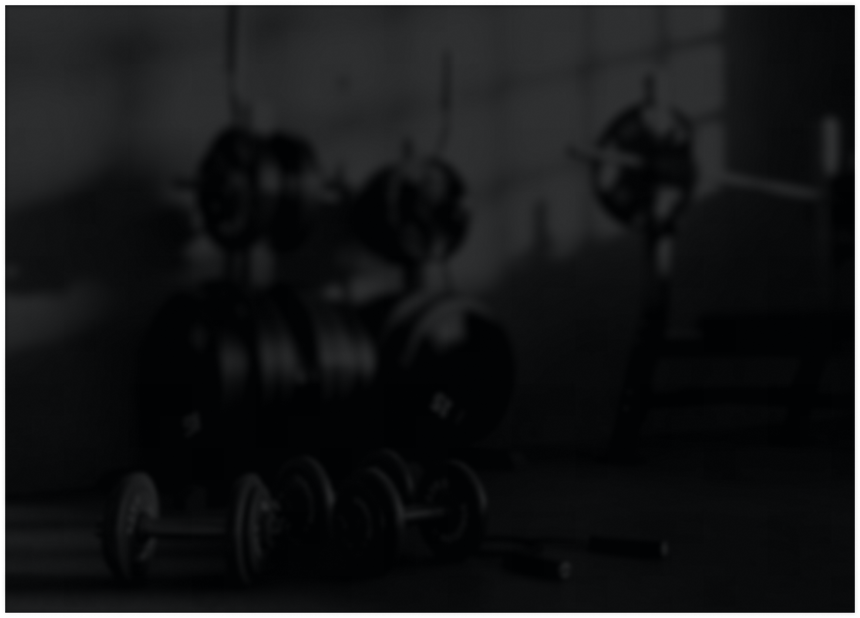
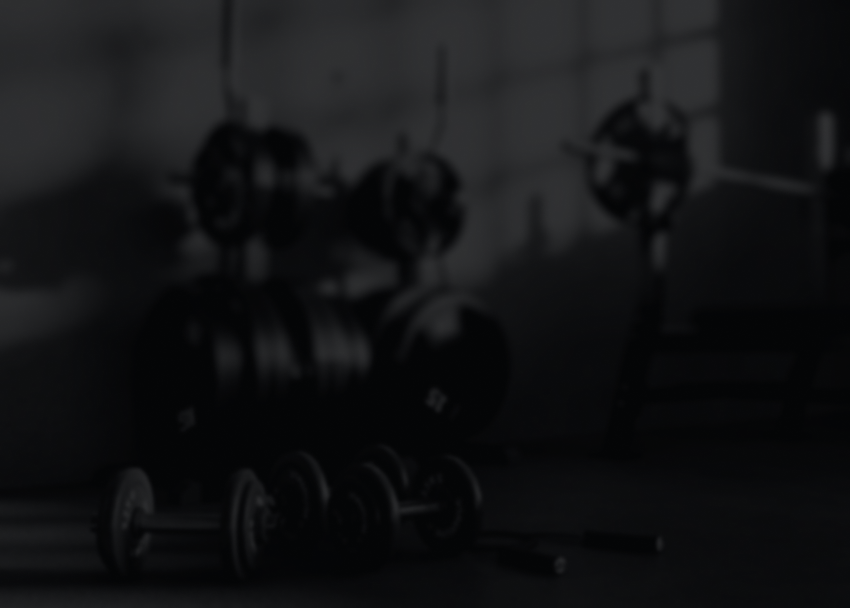
zavrseni clanovi

Changed region(s): [[0.0, 0.0, 1.0, 1.0]]

diff --git a/MainProzori/winAdmin.py b/MainProzori/winAdmin.py
@@ -1,0 +1,192 @@
+from tkinter import *
+import customtkinter as ctk
+import queries
+import helperFunctions
+import widgets as wid
+
+
+class ClanoviWindow:
+    def __init__(self, window, main_window,uloga):
+        self.window = window
+        self.main_window=main_window
+        self.current_canvas = None
+        self.broj_rezervacija_za_nagradjivanje=2
+        self.uloga=uloga
+        
+
+    def start(self):
+        self.current_canvas = Canvas(self.window, bg="#010204", height=618, width=860, bd=0, highlightthickness=0, relief="ridge")
+        self.current_canvas.place(x=230, y=0)        
+        
+        wid.create_button(self.current_canvas,"./src/img/Widget/btnExit.png",812,9,33,33,lambda: self.main_window.unisti_trenutni_win())# EXit dugme
+        wid.create_button(self.current_canvas,"./src/img/Widget/btnSearch.png",358,53,33,33,self.pretrazi) # Search dugme
+        self.uloga=="admin" and wid.create_button(self.current_canvas,"./src/img/Widget/btnNagradi.png",23,541,252,40,lambda: self.winClan_Izmeni("Nagradi")) # nagradi
+        wid.create_button(self.current_canvas,"./src/img/Widget/btnAktiviraj.png",300,541,252,40,lambda: self.winClan_Izmeni("Aktiviraj")) # aktiviraj
+        wid.create_button(self.current_canvas,"./src/img/Widget/btnObrisi.png",576,541,252,40,self.clan_delete) # delete
+        
+        self.imgsearchPozadiga = wid.create_canvas_image(self.current_canvas,"./src/img/Widget/searchPozadina.png",23,53)
+        self.tabelaPozadina = wid.create_canvas_image(self.current_canvas,"./src/img/Widget/tabelaPozadina.png",23,102)
+        
+        self.kriterijumiMap={
+            "Korisničko ime" : "username",
+            "Ime" : "ime",
+            "Prezime" : "prezime",
+            "Članstvo" : "status_clanstva",
+            "Paket" : "uplacen_paket",
+            "Datum registracije" : "datum_registracije",
+            "Članarina obnovljena" : "obnova_clanarine"
+        }
+        self.kriterijumi=["Korisničko ime", "Ime", "Prezime", "Članstvo", "Paket","Datum registracije","Članarina obnovljena","Broj rezervacija"]
+        self.entrySearch=wid.create_entry_search(self.current_canvas,self.pretrazi)
+        
+        self.current_canvas.create_text(610,65, anchor="nw", text="Pretraži po:", fill="#FFFFFF", font=("Inter", 12 * -1))
+        self.cmbbxSearch=wid.create_comboBox(self.current_canvas,self.kriterijumi,x=681,y=53)
+        self.cmbbxSearch.configure(values=self.kriterijumi[:-1])
+        
+        self.table=wid.create_table(self.current_canvas,self.popuni_tabelu,tuple(self.kriterijumi))
+        self.table.column("Korisničko ime", width=90)
+        self.table.column("Ime", width=100)
+        self.table.column("Prezime", width=100)
+        self.table.column("Datum registracije", width=100)
+        self.table.column("Članarina obnovljena", width=120)    
+        
+        
+    
+
+    def popuni_tabelu(self,tabela):
+        for red in tabela.get_children():
+            tabela.delete(red)
+                
+        podaci=self.izlistaj()
+        
+        for podatak in podaci:
+            podatak=list(podatak)
+            username=podatak[0]
+            broj_rezervacija=queries.broj_rezervacija_za_mesec(username)
+            podatak.append(broj_rezervacija)
+            if(broj_rezervacija>=self.broj_rezervacija_za_nagradjivanje):
+                tabela.insert("", "end", values=podatak,tags="za_aktivaciju")
+            else: tabela.insert("", "end", values=podatak)
+
+    def pretrazi(self):
+        pretraga = self.entrySearch.get().strip().lower()
+        kriterijum = self.kriterijumiMap.get(self.cmbbxSearch.get())
+        if(not kriterijum):
+            helperFunctions.obavestenje("Prvo izaberite kriterijum pretrage.")
+            return
+
+        for red in self.table.get_children():
+            self.table.delete(red)
+            
+        if pretraga =="" or pretraga=="pretraži":
+            pretraga=""
+        else:
+            if pretraga in "premium":
+                pretraga = 1
+            elif pretraga in "standard":
+                pretraga = 0  
+            elif pretraga in "aktiviran":
+                pretraga = 1
+            elif pretraga in "neaktiviran":
+                pretraga = 0  
+            else:
+                pass
+        
+        podaci=self.izlistaj(pretraga=pretraga,kriterijum=kriterijum)
+        
+        for podatak in podaci:
+            podatak=list(podatak)
+            username=podatak[0]
+            broj_rezervacija=queries.broj_rezervacija_za_mesec(username)
+            podatak.append(broj_rezervacija)
+            if(broj_rezervacija>=self.broj_rezervacija_za_nagradjivanje):
+                self.table.insert("", "end", values=podatak,tags="za_aktivaciju")
+            else: self.table.insert("", "end", values=podatak)
+
+    def izlistaj(self,kriterijum='username',pretraga=""):              
+        return queries.izlistaj_korisnike(pretraga,kriterijum)
+    
+    
+    def winClan_Izmeni(self,mode="Nagradi"):# ili Aktiviraj
+        slctd_item = self.table.selection()
+        if not slctd_item:
+            helperFunctions.obavestenje(poruka="Niste odabrali nijednog korisnika.")
+            return
+        
+        self.trenutni_window=helperFunctions.napravi_toplevel(height=193,title="Izmeni trening")
+        
+        slctd_data = self.table.item(slctd_item)
+        slctd_username = slctd_data["values"][0]
+        slctd_ime=slctd_data["values"][1]
+        slctd_prezime=slctd_data["values"][2]
+        slctd_br_rez=slctd_data["values"][7]
+        slctd_aktiviran=slctd_data["values"][3]
+        slctd_paket=slctd_data["values"][4]
+        
+        self.entryID=wid.create_entry(self.trenutni_window,70,11,width=203,height=23,placeholder=slctd_username+", "+slctd_ime+" "+slctd_prezime,justify="center",belo=True,state="disabled")
+        
+        if(mode=="Nagradi"):
+            wid.create_label(self.trenutni_window,"Broj realizovanih rezervacija u proteklih",34,52)
+            wid.create_label(self.trenutni_window,"mesec dana:",126,70)
+            self.entryBrDana=wid.create_entry(self.trenutni_window,151,96,width=41,height=23,placeholder=slctd_br_rez,justify="center",belo=True,state="disabled")
+            za_aktivaciju=slctd_data.get("tags")
+            if(za_aktivaciju):
+                fg_color="#3DA928"
+                btnSacuvaj = ctk.CTkButton(self.trenutni_window,width=166,height=27,text_color="#FFFFFF", text="Nagradi lojalnost",font=("Inter", 15),fg_color=fg_color,hover_color="#87E175", command=self.nagradi_lojalnost)
+                btnSacuvaj.place(x=89,y=132)
+            else:
+                fg_color="#2B2B2B"
+                btnSacuvaj = ctk.CTkButton(self.trenutni_window,width=166,height=27, text="Nagradi lojalnost",font=("Inter", 15),fg_color=fg_color,hover_color="#6B6969", command=lambda: None)
+                btnSacuvaj.place(x=89,y=132)
+        
+        else:
+            wid.create_label(self.trenutni_window,"Trenutni status:",22,57)
+            wid.create_label(self.trenutni_window,"Premium paket:",22,93)
+            self.entryStatus=wid.create_entry(self.trenutni_window,197,52,width=124,height=23,placeholder=slctd_aktiviran,justify="center",belo=True,state="disabled")
+            self.switchPaket=ctk.CTkSwitch(self.trenutni_window,width=43,height=24,text='')
+            self.switchPaket.place(x=272,y=90)
+            if (slctd_paket=="Premium"): self.switchPaket.select() 
+            else: self.switchPaket.deselect()
+            btnSacuvaj = ctk.CTkButton(self.trenutni_window,width=166,height=27, text="Aktiviraj status",font=("Inter", 15), command=self.aktiviraj_paket)
+            btnSacuvaj.place(x=89,y=132)
+            
+        wid.create_button(self.trenutni_window,"./src/img/Widget/btnOtkazi.png",x=136,y=166,width=72,height=17,command=self.trenutni_window.destroy)
+    
+    def clan_delete(self):
+        slctd_item = self.table.selection()
+        if not slctd_item:
+            helperFunctions.obavestenje(poruka="Niste odabrali nijednog korisnika.")
+            return
+        
+        pitaj = helperFunctions.pitaj(title="Potvrda brisanja", poruka="Da li ste sigurni da želite da obiršete odabranog korisnika?")
+        if not pitaj:
+            return
+
+        slctd_data = self.table.item(slctd_item)
+        username = slctd_data["values"][0]
+
+        try:
+            komanda = "DELETE FROM Korisnici WHERE username = ?"
+            queries.cursor.execute(komanda, (username,))
+            queries.connection.commit()
+
+            self.table.delete(slctd_item)
+            helperFunctions.obavestenje(title="Brisanje", poruka="Korisnik je uspešno obrisan.")
+
+        except Exception as e:
+            helperFunctions.obavestenje(title="Greška", poruka=f"Došlo je do greške prilikom brisanja korisnika: {e}")
+        pass
+    
+    def nagradi_lojalnost(self):
+        username = self.entryID.get().split(",")[0].strip()
+        queries.nagradi_lojalnost(username)
+        self.popuni_tabelu(self.table)
+        self.trenutni_window.destroy()
+        
+    def aktiviraj_paket(self):
+        username = self.entryID.get().split(",")[0].strip()
+        paket=self.switchPaket.get()
+        queries.aktiviraj_paket(username,paket)
+        self.popuni_tabelu(self.table)
+        self.trenutni_window.destroy()
+        

diff --git a/winMain.py b/winMain.py
@@ -21,7 +21,7 @@ class MainWindow:
         self.username=username
         self.uloga=self.nadji_ulogu(uloga)
         self.return_value = 0
-        helperFunctions.setup_window(self.window,"TopForm","1080x608","#04050C")
+        helperFunctions.setup_window(self.window,"TopForm","1080x603","#04050C")
         self.create_canvas()
         self.create_widgets()
         self.window.mainloop()
@@ -39,7 +39,7 @@ class MainWindow:
         )
         self.canvas.place(x=0, y=0)
         
-        self.imgPozadina = wid.create_canvas_image(self.canvas,"src/img/Main/imgPozadina.png",230, 0)
+        self.imgPozadina = wid.create_canvas_image(self.canvas,"src/img/Main/imgPozadina2.png",230, 0)
         self.imgLogo = wid.create_canvas_image(self.canvas,"src/img/Logo/TopFormLogoBeliSrednji.png",445, 190)#465142
         self.imgUser = wid.create_canvas_image(self.canvas,"src/img/Main/imgUser.png",0, 0)
 
